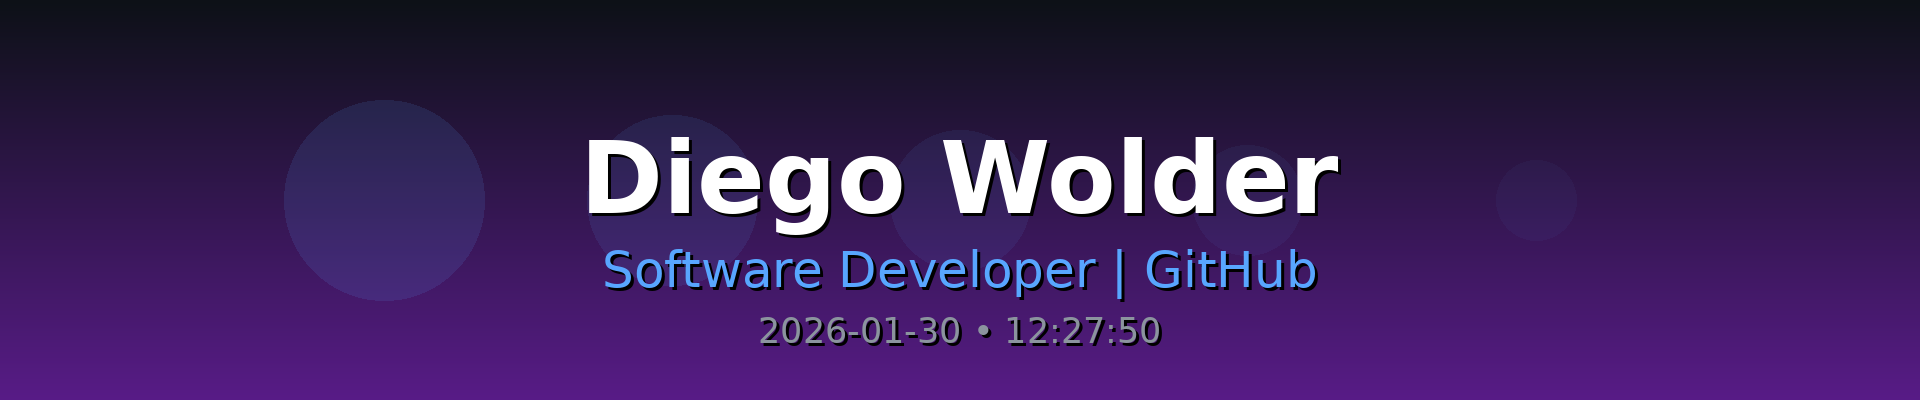
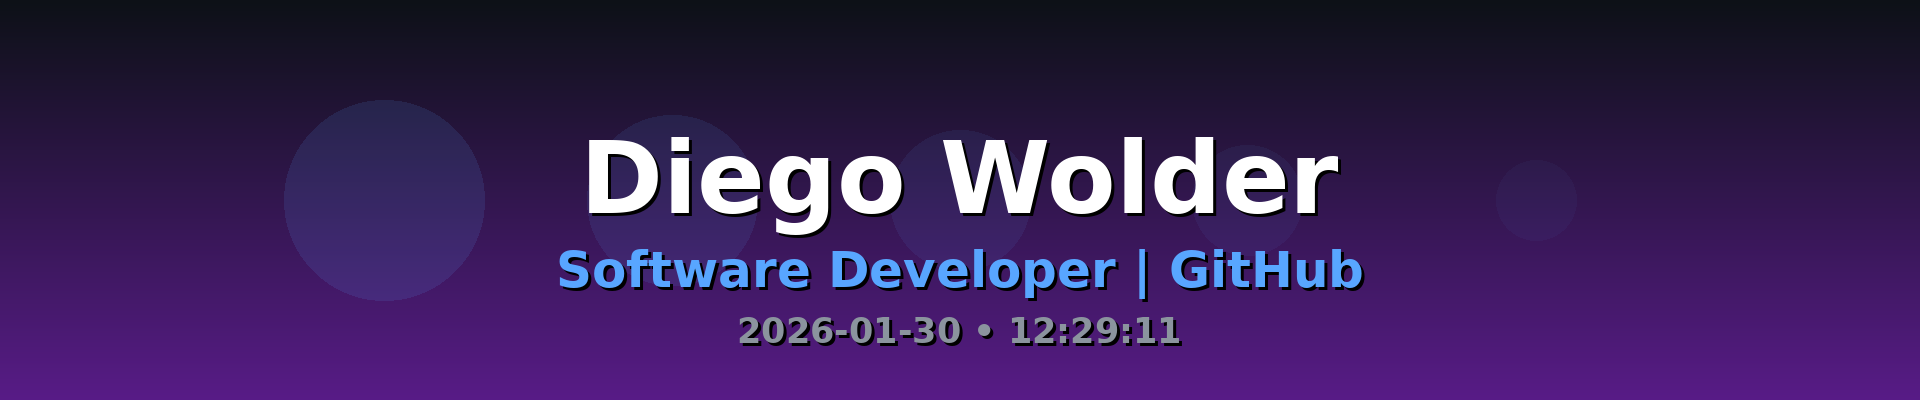
Fix code review issues: remove unused import, improve exception handling, add cross-platform font support, fix PNG save parameters

Changed region(s): [[0.2812, 0.6, 0.7188, 0.75], [0.375, 0.78, 0.625, 0.87]]

diff --git a/generate_header.py b/generate_header.py
@@ -5,7 +5,6 @@ Script to generate a GitHub profile header image with name and current date/time
 
 from PIL import Image, ImageDraw, ImageFont
 from datetime import datetime
-import os
 
 def generate_header(width=1920, height=400, output_file='header.png'):
     """
@@ -48,12 +47,33 @@ def generate_header(width=1920, height=400, output_file='header.png'):
     draw = ImageDraw.Draw(image)
     
     # Try to use a nice font, fall back to default if not available
+    font_paths = [
+        # Linux
+        "/usr/share/fonts/truetype/dejavu/DejaVuSans-Bold.ttf",
+        "/usr/share/fonts/truetype/dejavu/DejaVuSans.ttf",
+        # macOS
+        "/System/Library/Fonts/Helvetica.ttc",
+        "/Library/Fonts/Arial.ttf",
+        # Windows
+        "C:\\Windows\\Fonts\\arial.ttf",
+        "C:\\Windows\\Fonts\\calibri.ttf",
+    ]
+    
     try:
         # Try to find a good system font
-        font_large = ImageFont.truetype("/usr/share/fonts/truetype/dejavu/DejaVuSans-Bold.ttf", 100)
-        font_medium = ImageFont.truetype("/usr/share/fonts/truetype/dejavu/DejaVuSans.ttf", 50)
-        font_small = ImageFont.truetype("/usr/share/fonts/truetype/dejavu/DejaVuSans.ttf", 35)
-    except:
+        font_large = None
+        for font_path in font_paths:
+            try:
+                font_large = ImageFont.truetype(font_path, 100)
+                font_medium = ImageFont.truetype(font_path, 50)
+                font_small = ImageFont.truetype(font_path, 35)
+                break
+            except (IOError, OSError):
+                continue
+        
+        if font_large is None:
+            raise IOError("No suitable font found")
+    except (IOError, OSError):
         # Fallback to default font
         font_large = ImageFont.load_default()
         font_medium = ImageFont.load_default()
@@ -104,7 +124,7 @@ def generate_header(width=1920, height=400, output_file='header.png'):
     draw.text((datetime_x, datetime_y), datetime_text, fill='#8B949E', font=font_small)
     
     # Save the image
-    image.save(output_file, 'PNG', quality=95)
+    image.save(output_file, 'PNG', optimize=True)
     print(f"Header image generated successfully: {output_file}")
     print(f"Dimensions: {width}x{height}")
     print(f"Name: {name}")
